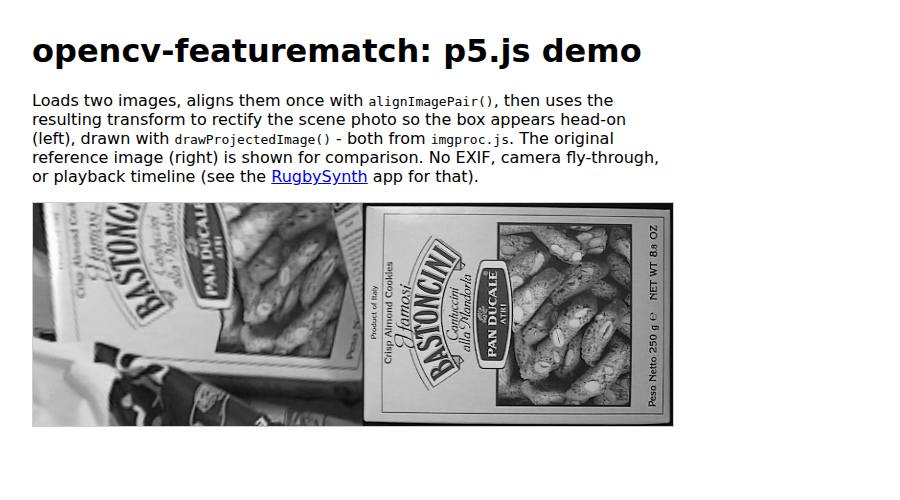
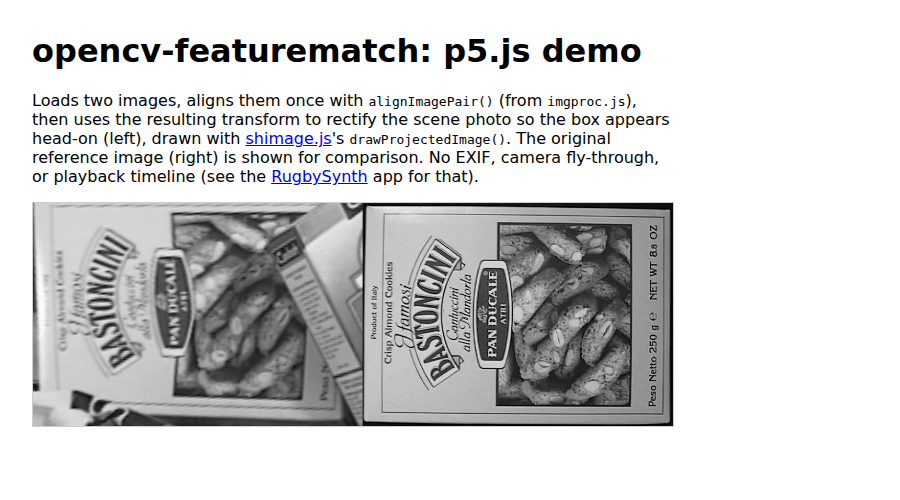
Fix p5.js demo rendering a badly-distorted, wrongly-rotated rectification
Two independent bugs compounded:

1. drawProjectedImage warped the *entire* 512x384 scene image as one quad.
   It approximates a true (nonlinear) projective warp with simple bilinear
   interpolation across 4 corners - accurate only over a small extent. Over
   the full image, the homography's small-but-real perspective term
   (h20, h21) compounds badly at the far corners, visibly distorting the
   interior - including the box region - well away from the true warp.
   Fixed by cropping tightly to the box's own region (found via the inverse
   transform) before warping, keeping the perspective term's effect small.

2. The crop-offset composition used multiplyMatrix4x4(cropOffset,
   sceneToRefTransform) to mean "cropOffset first, then sceneToRefTransform".
   But applyTransform4x4 applies a matrix to a column vector (M*p), and
   multiplyMatrix4x4(A, B) computes the literal product A*B - so "A first,
   then B" actually requires calling multiplyMatrix4x4(B, A), the reverse
   order. (multiplyMatrix4x4's own docstring claims the opposite, which is
   misleading - the verified-correct usage elsewhere in this codebase, e.g.
   processHomography's transform chaining, already follows the B-then-A
   argument order for "A first, then B".)

Together these made the rendered "rectified" box appear tilted at a whole
different angle than the reference image, rather than upright/head-on as
intended.

Changed region(s): [[0.0311, 0.39, 0.4044, 0.87], [0.0311, 0.18, 0.7467, 0.3]]

diff --git a/demos/p5js/sketch.js b/demos/p5js/sketch.js
@@ -9,6 +9,8 @@
 const GAP = 20;
 let sceneImg, refImg;
 let sceneToRefTransform = null;
+let croppedSceneImg = null;
+let croppedTransform = null;
 let ready = false;
 let loadedCount = 0;
 
@@ -26,6 +28,7 @@ function setup() {
     const result = alignImagePair(refImg.elt, sceneImg.elt, { maxPerspective: 0.01, maxScale: 3 });
     if (result.valid) {
       sceneToRefTransform = result.transform;
+      cropToBoxRegion();
     } else {
       console.warn('Alignment failed:', result.reason);
     }
@@ -38,15 +41,63 @@ function setup() {
   sceneImg.hide();
 }
 
+// The scene photo (512x384) is much larger than the matched box region within
+// it (roughly 190x140). drawProjectedImage warps a source image by mapping
+// its own 4 corners through Hproj and texturing the resulting quad with plain
+// bilinear interpolation - a good approximation of the true (nonlinear)
+// projective warp only over a small extent. Over the full scene image, the
+// homography's small-but-real perspective term (h20, h21) compounds badly at
+// the far corners, and the bilinear approximation visibly distorts the
+// interior - including the box region - well away from the true warp. Cropping
+// tightly to the box's own region first keeps the coordinates - and so the
+// perspective term's effect - small, which keeps the approximation accurate.
+function cropToBoxRegion() {
+  const inv = invertMatrix4x4(sceneToRefTransform);
+  const refW = refImg.elt.naturalWidth, refH = refImg.elt.naturalHeight;
+  const refCorners = [[0, 0], [refW, 0], [refW, refH], [0, refH]];
+  const sceneCorners = refCorners.map(([x, y]) => applyTransform4x4(x, y, inv));
+
+  const margin = 20;
+  const xs = sceneCorners.map(c => c[0]), ys = sceneCorners.map(c => c[1]);
+  const minX = Math.max(0, Math.min(...xs) - margin);
+  const minY = Math.max(0, Math.min(...ys) - margin);
+  const maxX = Math.min(sceneImg.elt.naturalWidth, Math.max(...xs) + margin);
+  const maxY = Math.min(sceneImg.elt.naturalHeight, Math.max(...ys) + margin);
+  const cropW = maxX - minX, cropH = maxY - minY;
+
+  const canvas = document.createElement('canvas');
+  canvas.width = cropW;
+  canvas.height = cropH;
+  const ctx = canvas.getContext('2d');
+  ctx.drawImage(sceneImg.elt, minX, minY, cropW, cropH, 0, 0, cropW, cropH);
+  croppedSceneImg = canvas;
+
+  // The crop's own (0,0) corresponds to (minX, minY) in the original scene
+  // image - prepend that offset so the transform still maps correctly.
+  // multiplyMatrix4x4(A, B) computes the matrix product A*B; since
+  // applyTransform4x4 applies a matrix to a column vector (M*p), getting
+  // "cropOffset first, then sceneToRefTransform" means passing
+  // sceneToRefTransform first here, cropOffset second.
+  const cropOffset = [
+    1, 0, 0, minX,
+    0, 1, 0, minY,
+    0, 0, 1, 0,
+    0, 0, 0, 1
+  ];
+  croppedTransform = multiplyMatrix4x4(sceneToRefTransform, cropOffset);
+}
+
 function draw() {
   background(230);
   if (!ready || !sceneToRefTransform) return;
 
   push();
     translate(-width / 2, -height / 2);
-    // Left: the rectified scene, warped so the box appears head-on, exactly
-    // as it does in the reference image.
-    drawProjectedImage(sceneImg.elt, 0, 0, sceneToRefTransform, 0);
+    // Left: the rectified (cropped) scene, warped so the box appears
+    // head-on, exactly as it does in the reference image.
+    if (croppedSceneImg && croppedTransform) {
+      drawProjectedImage(croppedSceneImg, 0, 0, croppedTransform, 0);
+    }
     // Right: the original reference image, for comparison.
     drawProjectedImage(refImg.elt, 324 + GAP, 0, identityMatrix, 0);
   pop();
